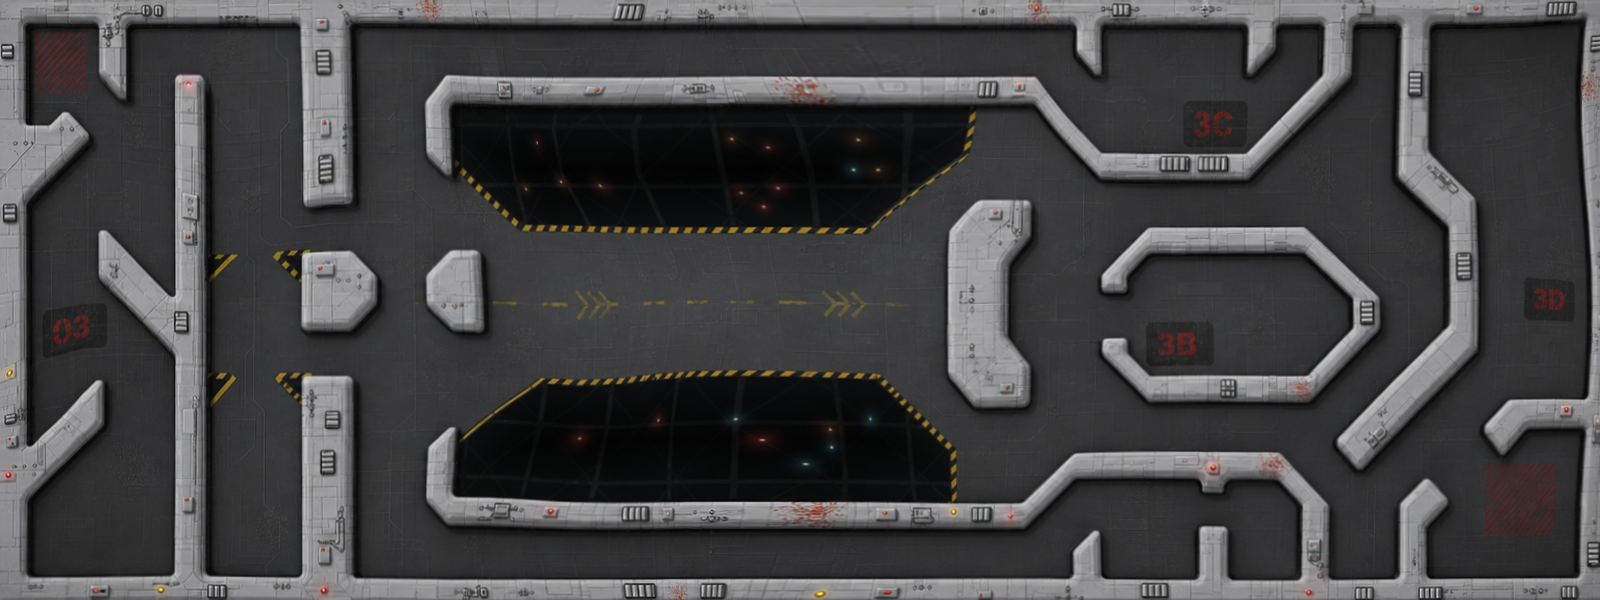
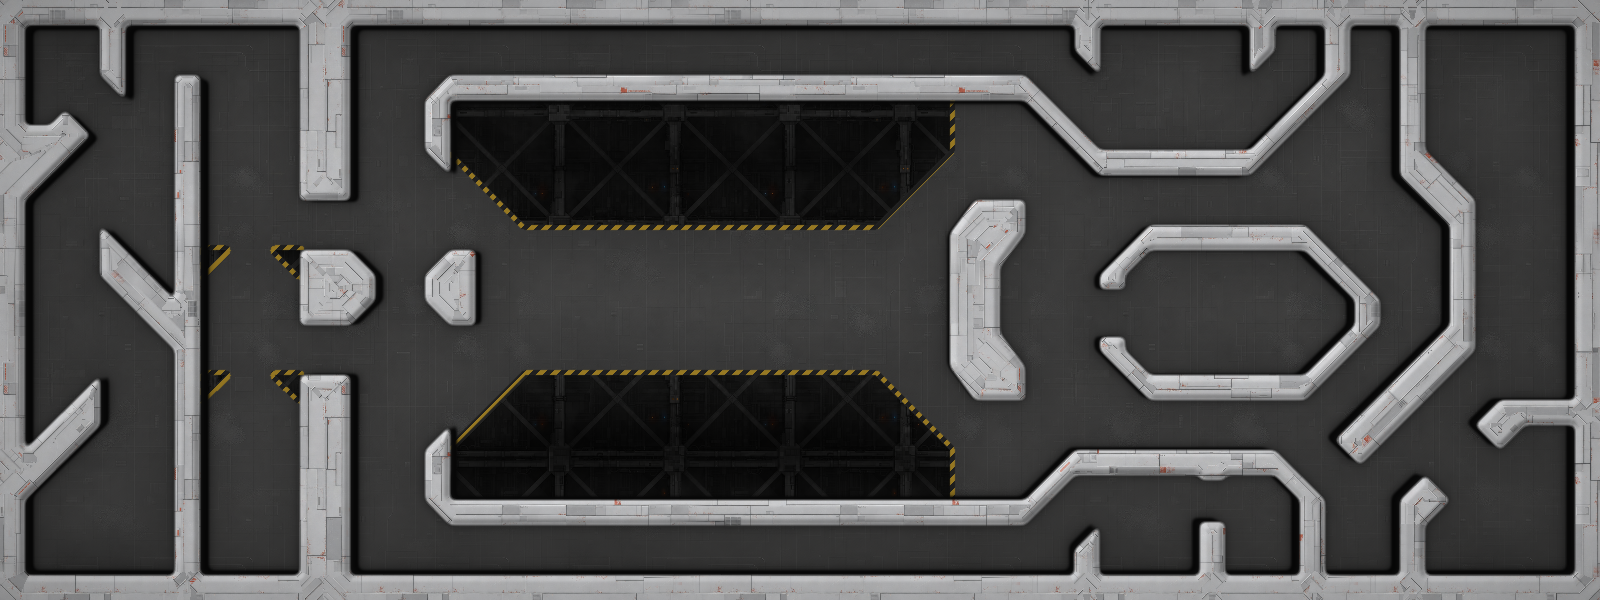
Bridge art: AI-generated textures assembled on the exact collision shape
Whole-map repaints drift the layout and, given my procedural painting as
a guide, copied its details. Instead generate parts with gpt-image-2 using
only backgrounds 0-2 as style references (wall-top plates, floor deck,
chasm girders; prompts in tools/art/parts/) and assemble them with
assemble_bridge.py: textures tiled along each wall's direction, rounded
corners, soft bevel, dark extruded sides, floor gradient lighting. Walls
now match collision exactly. Wall props are still to come.

Drop the whole-map pipeline (generate_bridge_ai.sh, bridge_prompt.txt);
align.py and paint_bridge.py stay as tools.

Claude-Session: https://claude.ai/code/session_01H47hBDPQBM8s5zFvCsXCoj

diff --git a/tools/art/assemble_bridge.py b/tools/art/assemble_bridge.py
@@ -1,0 +1,162 @@
+"""Assemble the Bridge (level 3) background from AI-generated parts on the exact
+collision shape.
+
+    python3 tools/art/assemble_bridge.py         # needs numpy, scipy, pillow
+
+Parts in tools/art/parts/ were generated with OpenAI gpt-image-2 using only the
+original levels (backgrounds 0-2) as style references; the prompts sit next to
+them. This script lays them onto level3's collision shape so the walls you see
+are the walls you hit:
+
+- floor and chasm textures are tiled; the wall-top texture is tiled along each
+  wall's direction (horizontal, vertical or diagonal)
+- walls get rounded corners, a soft bevel lit from the top-left, and dark sides
+  extruded toward a camera over the map centre, like the original levels
+- the floor gets soft gradient lighting and contact shadows; chasms get a
+  hazard-striped lip
+"""
+import json
+import os
+import re
+
+import numpy as np
+from PIL import Image, ImageDraw
+from scipy import ndimage as ndi
+
+ROOT = os.path.join(os.path.dirname(__file__), '..', '..')
+PARTS = os.path.join(os.path.dirname(__file__), 'parts')
+LEVEL = os.path.join(ROOT, 'source/library/level assets/level3/shape 1.json')
+OUT = os.path.join(ROOT, 'source/library/level assets/background3/shape 1/bitmap 1.png')
+W, H, SS = 1600, 600, 4
+rng = np.random.default_rng(2012)
+yy, xx = np.mgrid[0:H, 0:W].astype(np.float32)
+
+
+# ---------------------------------------------------------------- collision shape
+def subpaths(d):
+    pts, out = [], []
+    for cmd, x, y in re.findall(r'([MLZ])\s*(?:(-?[\d.]+)\s+(-?[\d.]+))?', d):
+        if cmd == 'M':
+            if pts: out.append(pts)
+            pts = [(float(x), float(y))]
+        elif cmd == 'L': pts.append((float(x), float(y)))
+        elif cmd == 'Z' and pts: out.append(pts); pts = []
+    if pts: out.append(pts)
+    return out
+
+
+def raster(d):
+    acc = np.zeros((H * SS, W * SS), bool)
+    for pts in subpaths(d):
+        im = Image.new('1', (W * SS, H * SS), 0)
+        ImageDraw.Draw(im).polygon([(x * SS, y * SS) for x, y in pts], fill=1)
+        acc ^= np.array(im)
+    return acc
+
+
+shape = json.load(open(LEVEL))
+label = np.zeros((H * SS, W * SS), np.uint8)
+for p in shape['paths']:
+    if 'fill' not in p: continue
+    col = shape['fills'][p['fill']]['color'].lower()
+    if col == '#ffffff': continue
+    label[raster(p['d'])] = 1 if col == '#000000' else 2
+down = lambda m: m.reshape(H, SS, W, SS).mean(axis=(1, 3)).astype(np.float32)
+wall, chasm = down(label == 1), down(label == 2)
+wallb, chasmb = wall > 0.5, chasm > 0.5
+
+
+def blur(a, s): return ndi.gaussian_filter(a.astype(np.float32), s, mode='nearest')
+
+
+# ---------------------------------------------------------------- textures
+def load(name):
+    return np.array(Image.open(os.path.join(PARTS, name + '.png')).convert('RGB'), np.float32) / 255
+
+
+def make_seamless(t, band=96):
+    """Cross-fade each edge with the opposite one so the texture wraps cleanly."""
+    h, w, _ = t.shape
+    for axis, n in ((1, w), (0, h)):
+        r = np.roll(t, n // 2, axis=axis)
+        ramp = np.clip((np.abs(np.arange(n) - n / 2) - (n / 2 - band)) / band, 0, 1)  # 1 at the edges, 0 inside
+        ramp = ramp[None, :, None] if axis == 1 else ramp[:, None, None]
+        t = t * (1 - ramp) + r * ramp
+    return t
+
+
+def tiled(t, scale, angle=0.0, off=(0.0, 0.0)):
+    """Sample texture t over the canvas at `scale` (canvas px per texture px), rotated."""
+    h, w, _ = t.shape
+    ca, sa = np.cos(angle), np.sin(angle)
+    u = (xx * ca + yy * sa) / scale + off[0]
+    v = (-xx * sa + yy * ca) / scale + off[1]
+    return np.stack([ndi.map_coordinates(t[..., c], [v % h, u % w], order=1, mode='grid-wrap') for c in range(3)], -1)
+
+
+floor_t = make_seamless(load('floor'))
+wall_t = make_seamless(load('wall'))
+chasm_t = make_seamless(load('chasm'))
+
+# ---------------------------------------------------------------- floor
+img = tiled(floor_t, 0.5)
+img = img / img.mean() * 0.24                                  # match the originals' floor tone
+open_d = ndi.distance_transform_edt(~(wallb | chasmb)).astype(np.float32)
+light = 0.86 + 0.24 * blur(np.clip(open_d / 90, 0, 1), 12)     # brighter away from walls
+light *= 1 + 0.10 * (blur(rng.random((H // 40 + 1, W // 40 + 1)).repeat(40, 0).repeat(40, 1)[:H, :W], 30) - 0.5)
+img *= light[..., None]
+
+# ---------------------------------------------------------------- chasms
+inside = ndi.distance_transform_edt(chasmb).astype(np.float32)
+ch = tiled(chasm_t, 0.45, off=(37, 11))
+ch = ch * (0.9 - 0.5 * np.clip(inside / 70, 0, 1))[..., None]
+img = img * (1 - chasm[..., None]) + ch * chasm[..., None]
+lip = (ndi.distance_transform_edt(~chasmb) <= 5) & ~chasmb & ~wallb
+stripe = ((xx + yy) % 14 < 7)
+lipf = blur(lip, 0.5)
+hz = np.where(stripe[..., None], np.array([0.72, 0.56, 0.11]), np.array([0.09, 0.09, 0.09]))
+img = img * (1 - 0.75 * lipf[..., None]) + hz * 0.75 * lipf[..., None]
+
+# ---------------------------------------------------------------- walls
+# rounded art mask: convex corners softened, inside corners filleted
+wr = np.clip((blur(wall, 3.2) - 0.5) * 3.0 + 0.5, 0, 1)
+wrb = wr > 0.5
+CX, CY, K, MAXOFF = W / 2, H / 2, 0.02, 9.0
+vx = np.clip(K * (xx - CX), -MAXOFF, MAXOFF)
+vy = np.clip(K * (yy - CY), -MAXOFF, MAXOFF)
+side = np.zeros((H, W), np.float32); st = np.ones((H, W), np.float32)
+for i in range(24, 0, -1):  # walls extruded toward the map centre
+    t = i / 24
+    s = ndi.map_coordinates(wr, [yy + t * vy, xx + t * vx], order=1, mode='nearest')
+    st[s > 0.5] = t; side = np.maximum(side, s)
+side = blur(side * (1 - wr), 0.6)
+ao = blur(np.maximum(side, wr), 5)
+img *= (1 - 0.5 * ao * (1 - wr) * (1 - side))[..., None]
+scol = 0.025 + 0.05 * (1 - st) ** 3
+img = img * (1 - side[..., None]) + scol[..., None] * side[..., None]
+
+# wall tops: the generated plate texture, run along each wall's direction
+dist = ndi.distance_transform_edt(wrb).astype(np.float32)
+ny, nx = np.gradient(blur(dist, 4))
+ang = np.arctan2(ny, nx) + np.pi / 2
+q = np.round(ang / (np.pi / 4)).astype(int) % 4                 # 0 horiz, 1 diag, 2 vert, 3 other diag
+q = ndi.median_filter(q, 7)
+top = np.zeros_like(img)
+for k in range(4):
+    tk = tiled(wall_t, 0.33, k * np.pi / 4, off=(k * 131.0, k * 57.0))
+    top += tk * (q == k)[..., None]
+top = top / top[wrb].mean() * 0.74
+
+# soft bevel lit from the top-left
+hgt = np.clip(dist / 7.0, 0, 1); hgt = blur(hgt * hgt * (3 - 2 * hgt), 1.2)
+gy, gx = np.gradient(hgt)
+nz = 0.18
+lam = (-gx * -0.55 - gy * -0.6 + nz * 0.58) / np.sqrt(gx * gx + gy * gy + nz * nz)
+top *= (0.70 + 0.42 * lam)[..., None]
+top *= (1 - 0.18 * np.clip(1 - dist / 1.5, 0, 1))[..., None]   # crisp dark edge line
+img = img * (1 - wr[..., None]) + top * wr[..., None]
+
+img *= (1 - 0.12 * (((xx / W - 0.5) * 2) ** 4 + ((yy / H - 0.5) * 2) ** 4))[..., None]
+out = (np.clip(img, 0, 1) * 255 + 0.5).astype(np.uint8)
+Image.fromarray(out, 'RGB').convert('RGBA').save(OUT, optimize=True)
+print('wrote', os.path.relpath(OUT, ROOT))

diff --git a/tools/art/paint_bridge.py b/tools/art/paint_bridge.py
@@ -17,6 +17,7 @@ Seeded, so re-running gives the same image.
 import json
 import os
 import re
+import sys
 
 import numpy as np
 from PIL import Image, ImageDraw, ImageFont
@@ -70,6 +71,15 @@ def down(m):
 wall = down(label == 1)    # coverage 0..1, anti-aliased
 chasm = down(label == 2)
 wallb, chasmb = wall > 0.5, chasm > 0.5
+
+if len(sys.argv) > 1 and sys.argv[1] == '--layout':
+    # Plain layout map, no art: light walls, dark floor, black chasms. This is
+    # what the image model gets as its layout guide (generate_bridge_ai.sh),
+    # so the only style it sees is the original levels'.
+    out = sys.argv[2]
+    v = 0.25 * (1 - wall - chasm) + 0.75 * wall + 0.0 * chasm
+    Image.fromarray((np.clip(v, 0, 1) * 255).astype(np.uint8), 'L').convert('RGB').save(out)
+    print('wrote', out); sys.exit(0)
 
 yy, xx = np.mgrid[0:H, 0:W].astype(np.float32)
 

diff --git a/source/README.md b/source/README.md
@@ -95,4 +95,4 @@ Instance properties:
 
 ## Generated art
 
-- `level assets/background3/shape 1/bitmap 1.png` (the Bridge floor and walls) replaces the original placeholder art. `tools/art/generate_bridge_ai.sh` makes it in three steps: `paint_bridge.py` paints a collision-accurate base from `level assets/level3`; OpenAI `gpt-image-2` repaints that base in the style of backgrounds 0-2, which it gets as references (prompt in `tools/art/bridge_prompt.txt`); and `align.py` warps the result so its walls line up with `level_mc` again. It needs `OPENAI_API_KEY`, numpy, scipy and Pillow. Image generation isn't deterministic, so re-running gives a different picture.
+- `level assets/background3/shape 1/bitmap 1.png` (the Bridge floor and walls) replaces the original placeholder art. `tools/art/assemble_bridge.py` builds it from parts in `tools/art/parts/` (wall-top, floor and chasm textures generated with OpenAI `gpt-image-2`, using only backgrounds 0-2 as style references; prompts are next to each part). The parts are laid onto `level assets/level3`'s collision shape, so the art lines up with `level_mc` exactly. Re-run it (needs numpy, scipy and Pillow) after changing the level or a part.
